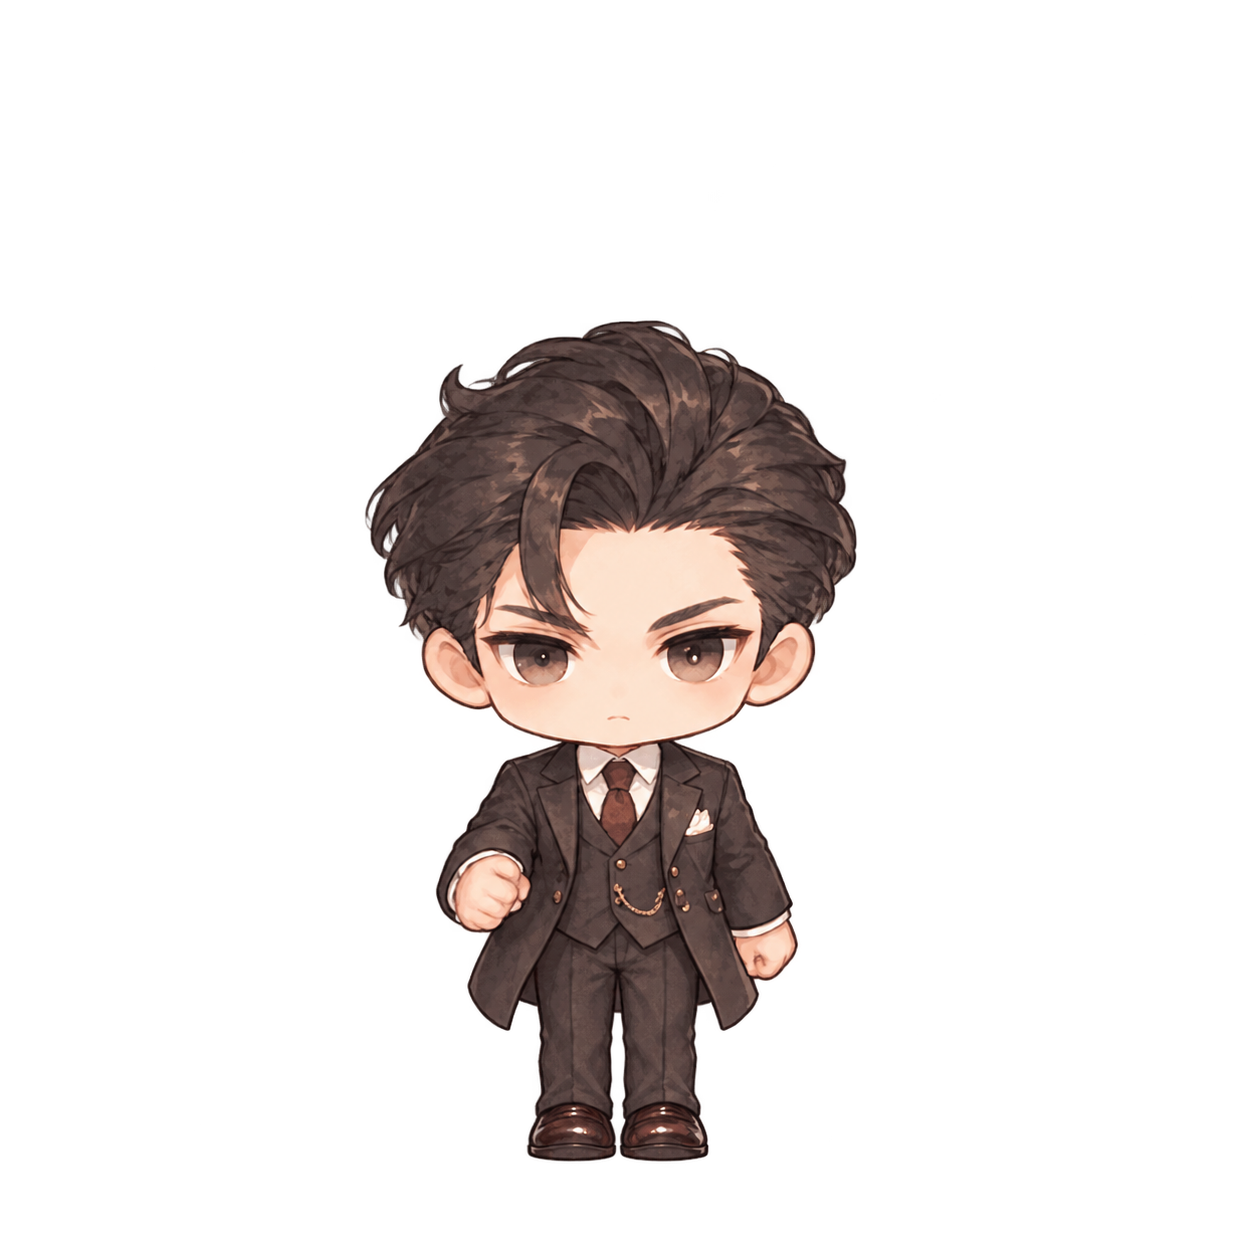
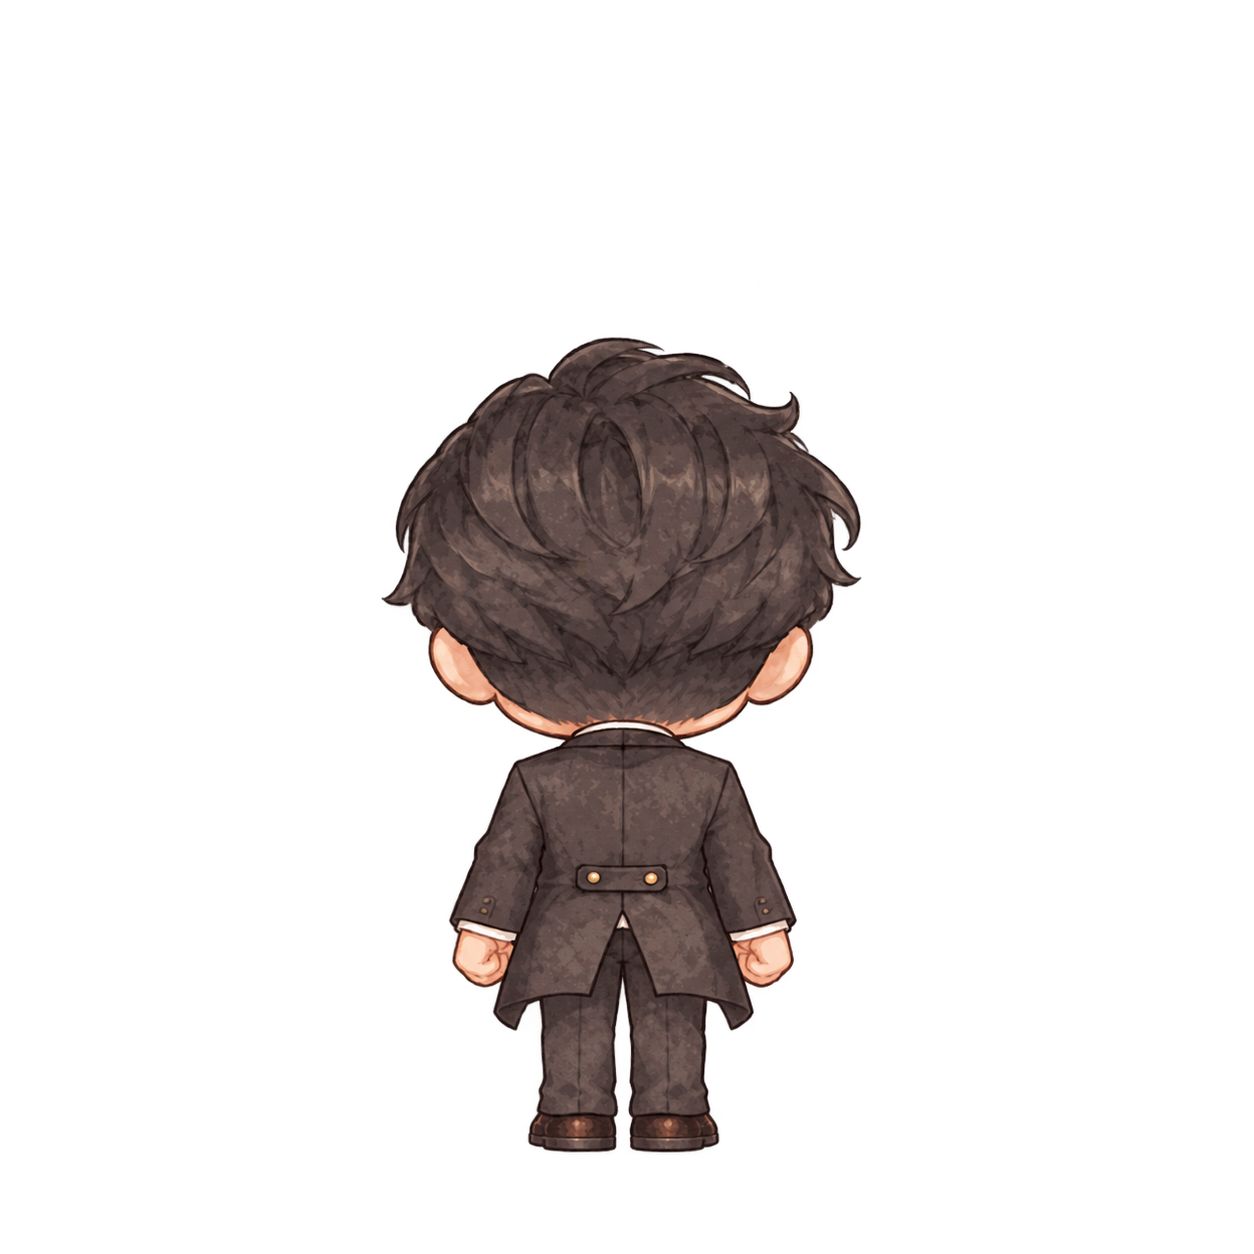
Use back-facing idle poses for NPCs

Changed region(s): [[0.2799, 0.2488, 0.6842, 0.933]]

diff --git a/scripts/make_stage_art.py b/scripts/make_stage_art.py
@@ -8,7 +8,7 @@ frames on cream), cat_shelter.png (the shelter, on transparent, with eight empty
 (front, starting and stopping poses), girl_run_cycle_v2.png plus girl_run_pose_b.png (the two leg phases),
 girl_walk.gif (30 frames: walking away from the camera, turning, walking towards it),
 npc_<n>.gif (a buyer: walking away from the camera, turning, walking towards it), npc_<n>_idle.png
-(the same buyer standing front-facing with both feet planted), Nunito.ttf (SIL OFL,
+(the same buyer standing back-facing with both feet planted), Nunito.ttf (SIL OFL,
 google/fonts). Where things stand is in game/assets/stage/layout.json, written here
 only when it does not exist yet, so it can be tuned by hand.
 Sheets leave a transparent border round every cell, so smooth sampling never bleeds from a neighbour.
@@ -188,7 +188,7 @@ def girl() -> None:
 
 
 def npcs() -> None:
-    """Build each buyer's walking sheet plus a separate, genuinely planted front-facing idle pose."""
+    """Build each buyer's walking sheet plus a separate, genuinely planted back-facing idle pose."""
     for path in sorted(SRC.glob("npc_*.gif")):
         frames, ms = gif_frames(path)
         frames = [soft_edge(f) for f in frames]
